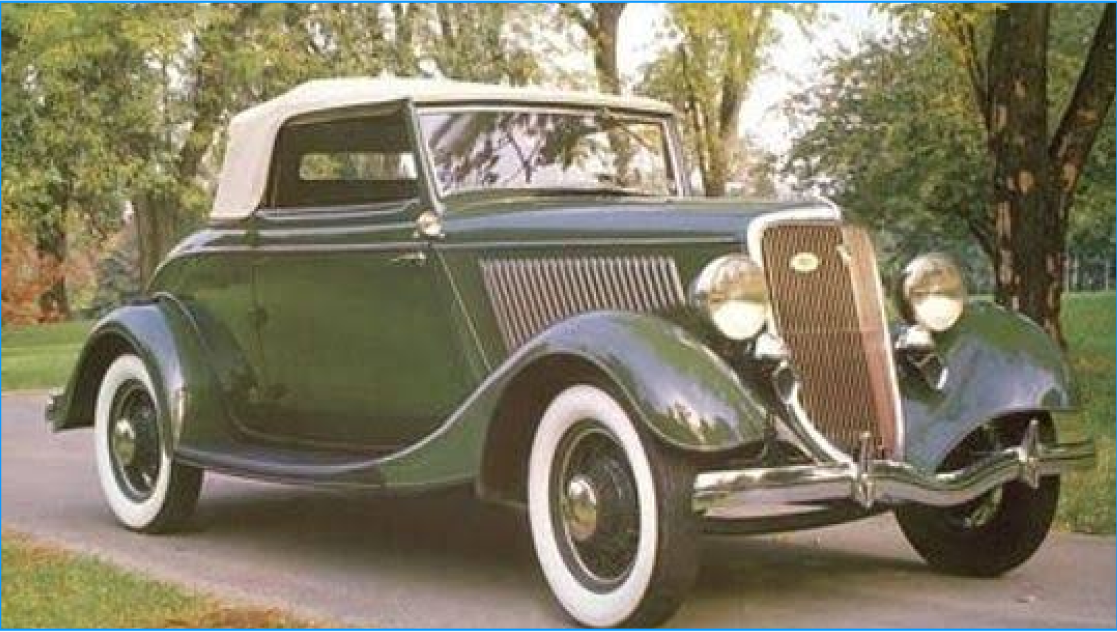
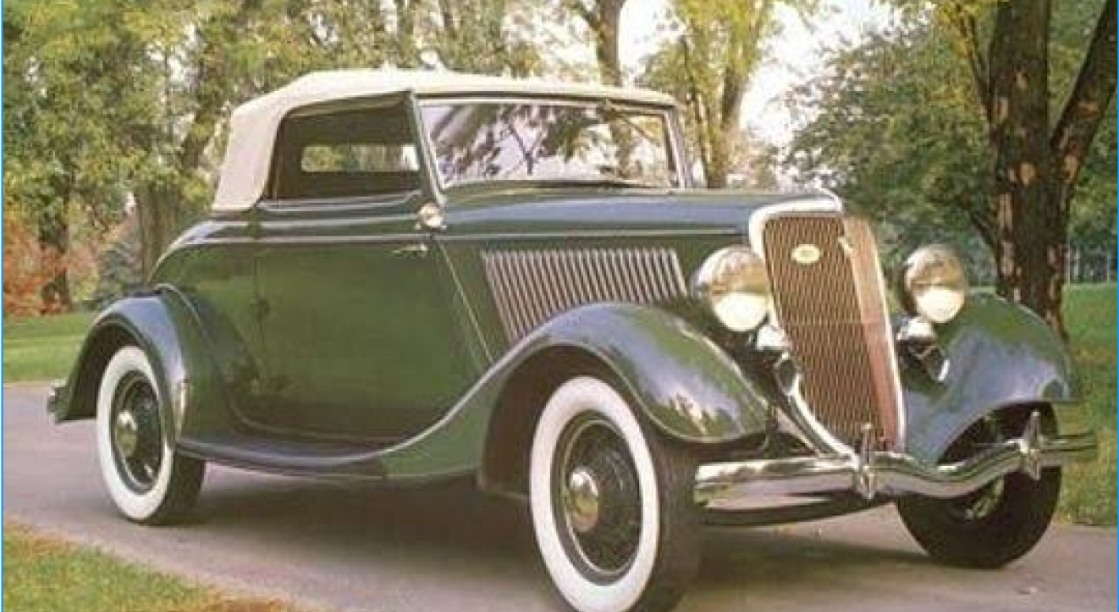
Adding images and fixing the sizes

diff --git a/index.html b/index.html
@@ -15,16 +15,16 @@
     </body>
     <!--Two columns for information layout start-->
      <section class="two-column">
-            <div class="image">
-                <img src="./images/First_era.png" alt="First era">
+            <div class="first-image">
+                <img src="./images/First (1).png" alt="First era">
             </div>
-            <div class="info">
+            <div class="first-info">
             <h1>1886-1918: The Birth of the Automobile</h1>
             <div>
     </section>
     <section class="two-column">
             <div class="image">
-                <img src="./images/Second.PNG" alt="Second era">
+                <img src="./images/Second.png" alt="Second era">
             </div>
             <div class="info">
             <h1>1919-1959: Mass Production</h1>

diff --git a/style.css b/style.css
@@ -13,11 +13,12 @@
     background-position: center;
     background-size: cover;
 }
+
 .two-column{
     display: grid;
     grid-template-columns: 1fr 3fr;
     gap: 50px;
-    width: 80%;
+    width: 100%;
     margin: auto;
     margin-top: 40px;
 }
